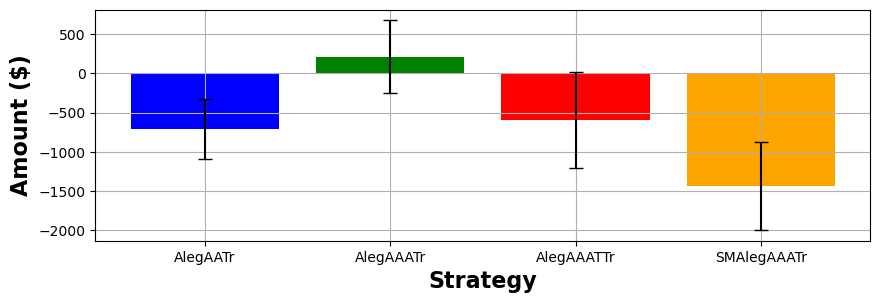
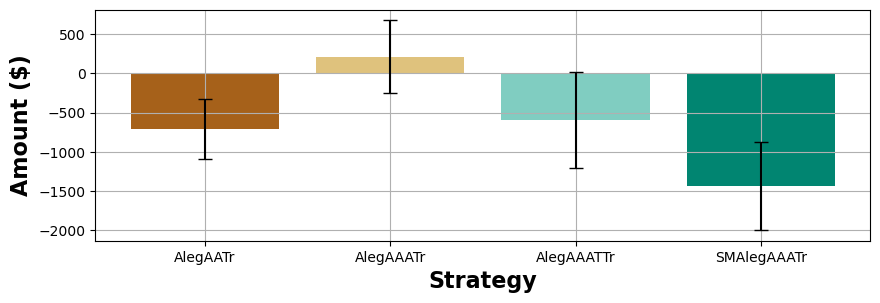
Adaptability scores for the 5 domains

diff --git a/analysis/adaptability_scores.py b/analysis/adaptability_scores.py
@@ -1,0 +1,243 @@
+from forex.utils.utils import CURRENCY_PAIRS, TIME_FRAMES
+import numpy as np
+import os
+import matplotlib.pyplot as plt
+import pandas as pd
+
+
+NAMES = ['AlegAATr', 'AlegAAATr', 'AlegAAATTr', 'SMAlegAAATr']
+COLORS = ['#fbb4ae', '#b3cde3', '#ccebc5', '#decbe4']
+
+
+# Forex
+def forex_scores() -> None:
+    all_profits = {}
+    directory = '../analysis/forex_results/final_balances_csv/'
+    file_list = os.listdir(directory)
+
+    pair_time_frame_combos = [f'{currency_pair}_{time_frame}' for currency_pair in CURRENCY_PAIRS for time_frame in
+                              TIME_FRAMES]
+    results_by_pair_time_frame = {}
+
+    for pair_time_frame in pair_time_frame_combos:
+        results_by_pair_time_frame[pair_time_frame] = {}
+
+    # Extract the data
+    for file_name in file_list:
+        df = pd.read_csv(f'{directory}{file_name}')
+
+        for strategy in df.columns[1:]:
+            profit = df.loc[df.index[0], strategy] - 10000
+            name = 'SMAlegAAATr' if strategy == 'SMAlegAATr' else strategy
+            all_profits[name] = all_profits.get(name, []) + [profit]
+
+    minimax_val, lowest_reward = 0, -10000
+    defect_scores = {}
+    for strategy in NAMES:
+        for profit in all_profits[strategy]:
+            regret = (0 - lowest_reward) - (profit - lowest_reward)
+            val = 1 - max((regret / (0 - lowest_reward)), 0)
+            assert 0 <= val <= 1
+            defect_scores[strategy] = defect_scores.get(strategy, []) + [val]
+
+    print('FOREX:')
+    avgs, ses = [], []
+    for strategy, scores in defect_scores.items():
+        avg = np.array(scores).mean()
+        avgs.append(avg)
+        ses.append(np.std(scores, ddof=1) / np.sqrt(len(scores)))
+        print(f'{strategy}: d = {avg}')
+
+    plt.figure(figsize=(10, 3))
+    plt.grid()
+    plt.bar(NAMES, avgs, yerr=ses, capsize=5, color=COLORS)
+    plt.xlabel('Algorithm', fontsize=18, fontweight='bold')
+    plt.ylabel('Score', fontsize=18, fontweight='bold')
+    plt.savefig(f'../analysis/adaptability_plots/forex_d.png', bbox_inches='tight')
+    plt.clf()
+
+
+def pursuit_scores() -> None:
+    # Get the data
+    folder = '../analysis/stag_hare_results/'
+    names, grid_dims, opponent_types = [], [], []
+    final_rewards, final_reward_sums = [], []
+
+    for file in os.listdir(folder):
+        agent_name = file.split('_')[0]
+        height = file.split('h=')[1].split('_')[0]
+        width = file.split('w=')[1].split('.')[0]
+        opp_type = file[len(agent_name) + 1:].split('_')[0]
+        data = np.genfromtxt(f'{folder}{file}', delimiter=',', skip_header=0)
+        if data.shape[0] == 0:
+            continue
+        if len(data.shape) == 1:
+            data = data.reshape(1, -1)
+
+        for row in data:
+            # Add the condition info
+            names.append(agent_name)
+            grid_dims.append(f'{height}_{width}')
+            opponent_types.append(opp_type)
+
+            # Calculate and add the results
+            agent_reward = row[-1]
+            final_rewards.append(agent_reward)
+            final_reward_sums.append(sum(row))
+
+    df = pd.DataFrame(
+        {
+            'algorithm': names,
+            'grid_dims': grid_dims,
+            'opponent_type': opponent_types,
+            'reward_sum': final_reward_sums,
+            'agent_final_reward': final_rewards,
+        }
+    )
+    df['algorithm'] = df['algorithm'].replace({'SMAlegAATr': 'SMAlegAAATr'})
+
+    # Calculate the scores
+    defect_scores, coop_scores = {}, {}
+    minimax_val, lowest_reward = 3.3769999999999993, 0
+    opp_types = df['opponent_type'].unique()
+    for agent in NAMES:
+        for opp_type in opp_types:
+            df_filtered = df[(df['algorithm'] == agent) & (df['opponent_type'] == opp_type)]
+            rewards, reward_sums = df_filtered['agent_final_reward'].to_list(), df_filtered['reward_sum'].to_list()
+            assert len(rewards) == len(reward_sums)
+            for i in range(len(rewards)):
+                if opp_type in ['greedyplannerhare', 'greedyprobhare', 'greedyhare', 'probdesthare']:
+                    comparison = 3.3769999999999993
+                    regret = (comparison - lowest_reward) - (rewards[i] - lowest_reward)
+                    val = 1 - max((regret / (comparison - lowest_reward)), 0)
+                    val = max(val, 0)
+                    val = min(val, 1)
+                    assert 0 <= val <= 1
+                    defect_scores[agent] = defect_scores.get(agent, []) + [val]
+
+                elif opp_type in ['greedystag', 'modellerstag', 'teamawarestag', 'greedyplannerstag', 'selfplay']:
+                    comparison = 13.760833333333334
+                    avg_reward = reward_sums[i] / 3
+                    regret = (comparison - minimax_val) - (avg_reward - minimax_val)
+                    val = 1 - min((regret / (comparison - minimax_val)), 1)
+                    val = max(val, 0)
+                    val = min(val, 1)
+                    assert 0 <= val <= 1
+                    coop_scores[agent] = coop_scores.get(agent, []) + [val]
+
+                else:
+                    raise Exception(f'{opp_type} is not a defined opponent type')
+
+    print('PURSUIT:')
+    scores = {}
+    for agent in NAMES:
+        d_scores, c_scores = defect_scores[agent], coop_scores[agent]
+        c_scores = c_scores[:len(d_scores)]
+        assert len(d_scores) == len(c_scores)
+        a_scores = [min(d_scores[i], c_scores[i]) for i in range(len(d_scores))]
+        d, c, a = np.array(d_scores).mean(), np.array(c_scores).mean(), np.array(a_scores).mean()
+        scores[agent] = {}
+        scores[agent]['d'] = d_scores
+        scores[agent]['c'] = c_scores
+        scores[agent]['a'] = a_scores
+
+        print(f'{agent}: d = {d}, c = {c}, a = {a}')
+
+    for cond in ['d', 'c', 'a']:
+        avgs, ses = [], []
+        for alg in NAMES:
+            alg_data = scores[alg][cond]
+            avgs.append(np.mean(alg_data))
+            ses.append(np.std(alg_data, ddof=1) / np.sqrt(len(alg_data)))
+
+        plt.figure(figsize=(10, 3))
+        plt.grid()
+        plt.bar(NAMES, avgs, yerr=ses, capsize=5, color=COLORS)
+        plt.xlabel('Algorithm', fontsize=18, fontweight='bold')
+        plt.ylabel('Score', fontsize=18, fontweight='bold')
+        plt.savefig(f'../analysis/adaptability_plots/pursuit_{cond}.png', bbox_inches='tight')
+        plt.clf()
+
+
+def rg_scores(game_name: str) -> None:
+    n_epochs, n_rounds = 50, 50
+    defect_scores, coop_scores, adapt_scores = {}, {}, {}
+
+    if game_name == 'chicken':
+        minimax_val, lowest_reward = -1 * n_rounds, -5 * n_rounds
+        defect_comparison, coop_comparison = -1 * n_rounds, 1 * n_rounds
+
+    elif game_name == 'coordination':
+        minimax_val, lowest_reward = 0 * n_rounds, 0 * n_rounds
+        defect_comparison, coop_comparison = 2 * n_rounds, 2 * n_rounds
+
+    elif game_name == 'prisoners_dilemma':
+        minimax_val, lowest_reward = -1 * n_rounds, -3 * n_rounds
+        defect_comparison, coop_comparison = -1 * n_rounds, 3 * n_rounds
+
+    else:
+        raise Exception(f'{game_name} is not a valid game')
+
+    for agent in NAMES:
+        name_for_file = 'smalegaatr' if agent == 'SMAlegAAATr' else 'algaater'
+        sp_column = 'SMAlegAATr' if agent == 'SMAlegAAATr' else 'Algaater'
+        file_adj = '_auto' if agent == 'AlegAAATr' else ('_auto_tuned' if agent == 'AlegAAATTr' else '')
+        df_train = pd.read_csv(f'../analysis/{game_name}_game/{name_for_file}_full{file_adj}.csv')
+        df_self_play = pd.read_csv(f'../analysis/{game_name}_game/{name_for_file}_self_play{file_adj}.csv')
+        for i in range(n_epochs):
+            defect_rewards = list(df_train.loc[df_train.index[i], ['BullyOpp', 'BullyPunishOpp']])
+            coop_rewards = [df_train.loc[df_train.index[i], 'CoopPunishOpp'], df_self_play.loc[df_self_play.index[i], sp_column]]
+
+            # Defect score
+            avg_d_reward = sum(defect_rewards) / len(defect_rewards)
+            regret = (defect_comparison - lowest_reward) - (avg_d_reward - lowest_reward)
+            d = 1 - max((regret / (defect_comparison - lowest_reward)), 0)
+            d = max(d, 0)
+            d = min(d, 1)
+            assert 0 <= d <= 1
+            defect_scores[agent] = defect_scores.get(agent, []) + [d]
+
+            # Coop score
+            avg_c_reward = sum(coop_rewards) / len(coop_rewards)
+            regret = (coop_comparison - minimax_val) - (avg_c_reward - minimax_val)
+            c = 1 - min((regret / (coop_comparison - minimax_val)), 1)
+            c = max(c, 0)
+            c = min(c, 1)
+            assert 0 <= c <= 1
+            coop_scores[agent] = coop_scores.get(agent, []) + [c]
+
+            # Adapt score
+            adapt_scores[agent] = adapt_scores.get(agent, []) + [min(d, c)]
+
+    print(f'{game_name.upper()}:')
+    scores = {}
+    for agent in NAMES:
+        d_scores, c_scores, a_scores = defect_scores[agent], coop_scores[agent], adapt_scores[agent]
+        d, c, a = np.array(d_scores).mean(), np.array(c_scores).mean(), np.array(a_scores).mean()
+        scores[agent] = {}
+        scores[agent]['d'] = d_scores
+        scores[agent]['c'] = c_scores
+        scores[agent]['a'] = a_scores
+
+        print(f'{agent}: d = {d}, c = {c}, a = {a}')
+
+    for cond in ['d', 'c', 'a']:
+        avgs, ses = [], []
+        for alg in NAMES:
+            alg_data = scores[alg][cond]
+            avgs.append(np.mean(alg_data))
+            ses.append(np.std(alg_data, ddof=1) / np.sqrt(len(alg_data)))
+
+        plt.figure(figsize=(10, 3))
+        plt.grid()
+        plt.bar(NAMES, avgs, yerr=ses, capsize=5, color=COLORS)
+        plt.xlabel('Algorithm', fontsize=18, fontweight='bold')
+        plt.ylabel('Score', fontsize=18, fontweight='bold')
+        plt.savefig(f'../analysis/adaptability_plots/{game_name}_{cond}.png', bbox_inches='tight')
+        plt.clf()
+
+
+if __name__ == '__main__':
+    # forex_scores()
+    rg_scores('prisoners_dilemma')
+    # pursuit_scores()

diff --git a/analysis/stag_hare_stat_tests.py b/analysis/stag_hare_stat_tests.py
@@ -30,7 +30,6 @@ for file in os.listdir(folder):
         final_rewards.append(agent_reward)
         final_reward_sums.append(sum(row))
 
-# Store in a csv file for analysis in Google Sheets (or MS Excel)
 df = pd.DataFrame(
     {
         'algorithm': names,
@@ -40,7 +39,6 @@ df = pd.DataFrame(
         'agent_final_reward': final_rewards,
     }
 )
-# df.to_csv('../simulations/formatted_results_hand_picked_stag_hare.csv', index=False)
 df['algorithm'] = df['algorithm'].replace({'SMAlegAATr': 'SMAlegAAATr'})
 average_rewards_by_alg = df.groupby('algorithm')['agent_final_reward'].agg(['mean', 'sem']).reset_index()
 order = ['AlegAATr', 'AlegAAATr', 'AlegAAATTr', 'SMAlegAAATr']
@@ -49,7 +47,7 @@ average_rewards_by_alg['algorithm'] = pd.Categorical(average_rewards_by_alg['alg
 average_rewards_by_alg = average_rewards_by_alg.sort_values('algorithm').reset_index(drop=True)
 plt.figure(figsize=(10, 3))
 plt.grid()
-bar_colors = ['blue', 'green', 'red', 'orange']
+bar_colors = ['#a6611a', '#dfc27d', '#80cdc1', '#018571']
 plt.bar(average_rewards_by_alg['algorithm'], average_rewards_by_alg['mean'],
         yerr=average_rewards_by_alg['sem'], capsize=5, color=bar_colors)
 plt.xlabel('Agent', fontsize=16, fontweight='bold')
@@ -63,7 +61,7 @@ average_rewards_by_alg['algorithm'] = pd.Categorical(average_rewards_by_alg['alg
 average_rewards_by_alg = average_rewards_by_alg.sort_values('algorithm').reset_index(drop=True)
 plt.figure(figsize=(10, 3))
 plt.grid()
-bar_colors = ['blue', 'green', 'red', 'orange']
+bar_colors = ['#a6611a', '#dfc27d', '#80cdc1', '#018571']
 plt.bar(average_rewards_by_alg['algorithm'], average_rewards_by_alg['mean'],
         yerr=average_rewards_by_alg['sem'], capsize=5, color=bar_colors)
 plt.xlabel('Agent', fontsize=16, fontweight='bold')

diff --git a/analysis/repeated_games_graphs.py b/analysis/repeated_games_graphs.py
@@ -118,7 +118,7 @@ for game_name in ['prisoners_dilemma_game', 'chicken_game', 'coordination_game']
     algaater_auto_tuned_compressed['Agent'] = ['AlegAAATTr'] * len(algaater_auto_tuned_compressed)
     algaater_auto_tuned_compressed.rename(columns={'Algaater': 'Rewards'}, inplace=True)
 
-    smalegaatr_compressed_test = pd.read_csv(f'../analysis/{game_name}/smalgaatr_self_play.csv')
+    smalegaatr_compressed_test = pd.read_csv(f'../analysis/{game_name}/smalegaatr_self_play.csv')
     smalegaatr_compressed_test['Agent'] = ['SMAlegAATr'] * len(smalegaatr_compressed_test)
     smalegaatr_compressed_test.rename(columns={'SMAlegAATr': 'Rewards'}, inplace=True)
 
@@ -232,7 +232,7 @@ for game_name in ['prisoners_dilemma_game', 'chicken_game', 'coordination_game']
     average_rewards_by_alg = average_rewards_by_alg.sort_values('Agent').reset_index(drop=True)
     plt.figure(figsize=(10, 3))
     plt.grid()
-    bar_colors = ['blue', 'green', 'red', 'orange']
+    bar_colors = ['#a6611a', '#dfc27d', '#80cdc1', '#018571']
     plt.bar(average_rewards_by_alg['Agent'], average_rewards_by_alg['mean'],
             yerr=average_rewards_by_alg['sem'], capsize=5, color=bar_colors)
     plt.xlabel('Agent', fontsize=16, fontweight='bold')

diff --git a/analysis/forex_crunch_numbers.py b/analysis/forex_crunch_numbers.py
@@ -174,7 +174,7 @@ def crunch_numbers() -> None:
 
         avgs = [arry.mean() for arry in all_profs]
         standard_errors = [arry.std() / len(arry) ** 0.5 for arry in all_profs]
-        bar_colors = ['blue', 'green', 'red', 'orange']
+        bar_colors = ['#a6611a', '#dfc27d', '#80cdc1', '#018571']
         plt.figure(figsize=(10, 3))
         plt.grid()
         plt.bar(names, avgs, yerr=standard_errors, capsize=5, color=bar_colors)
